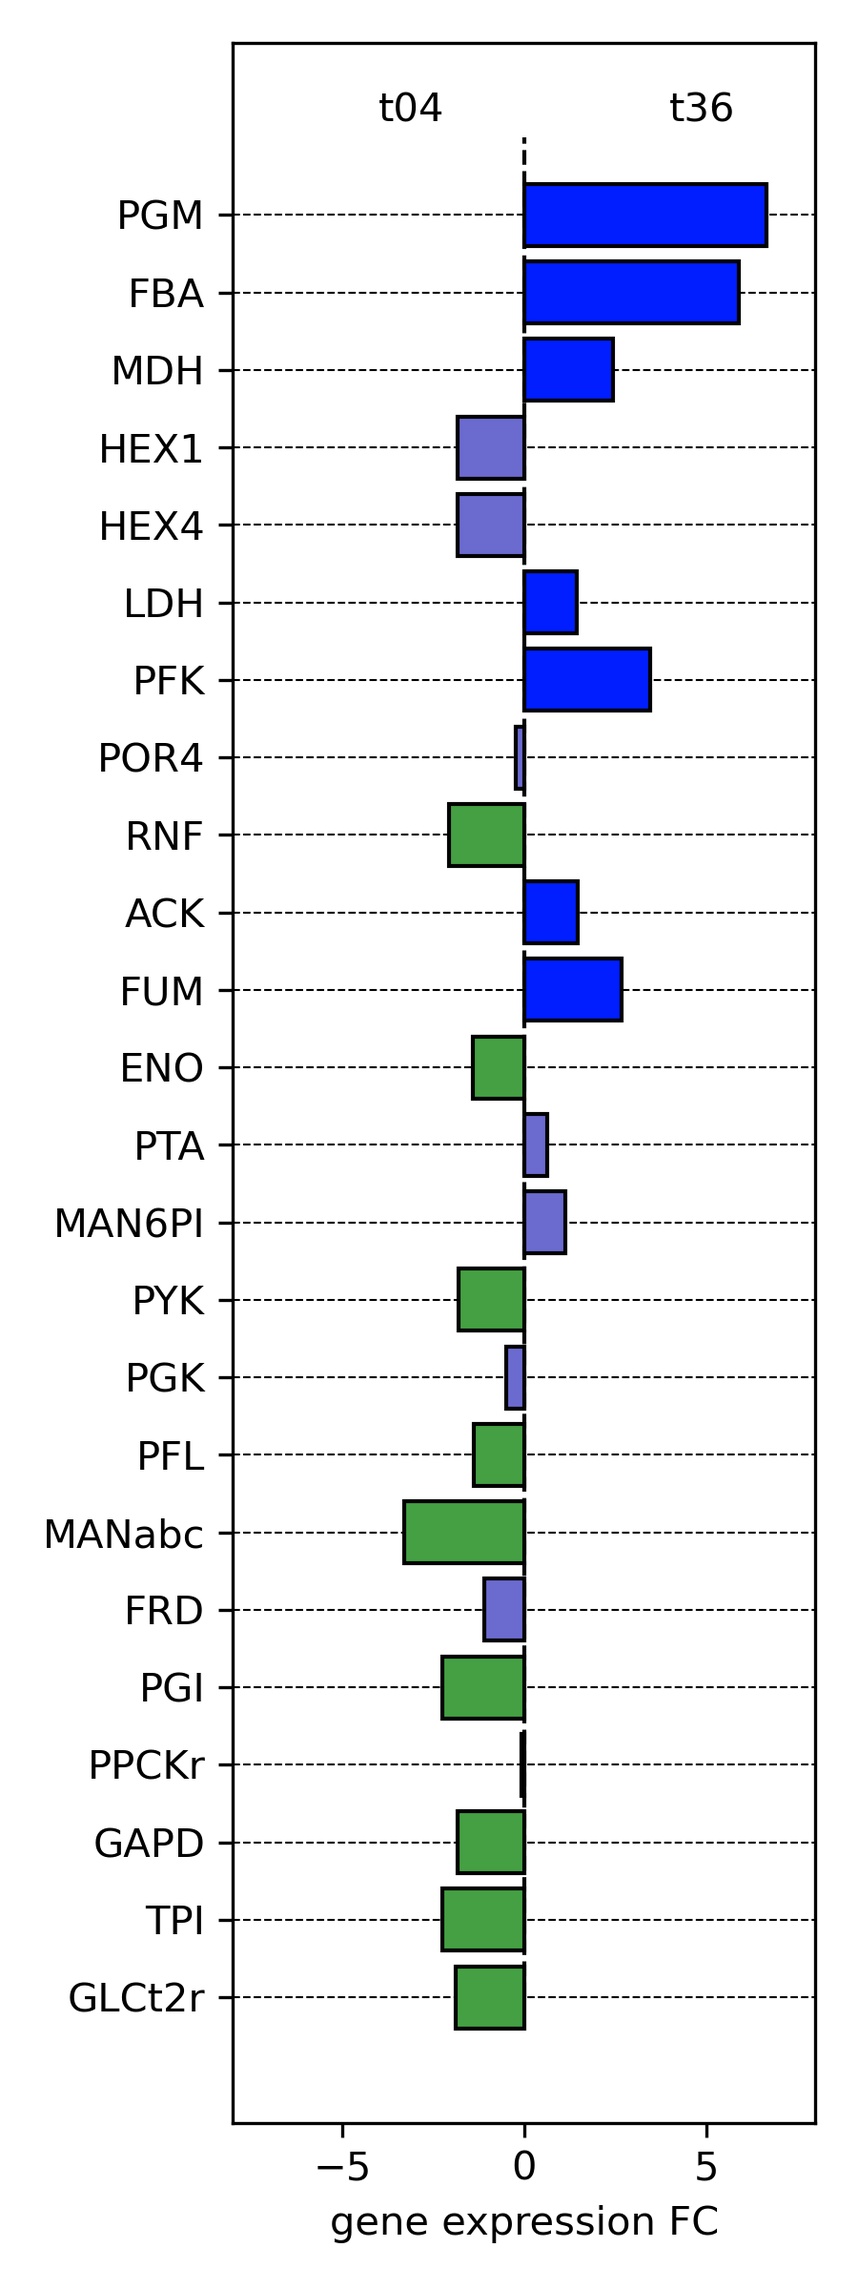
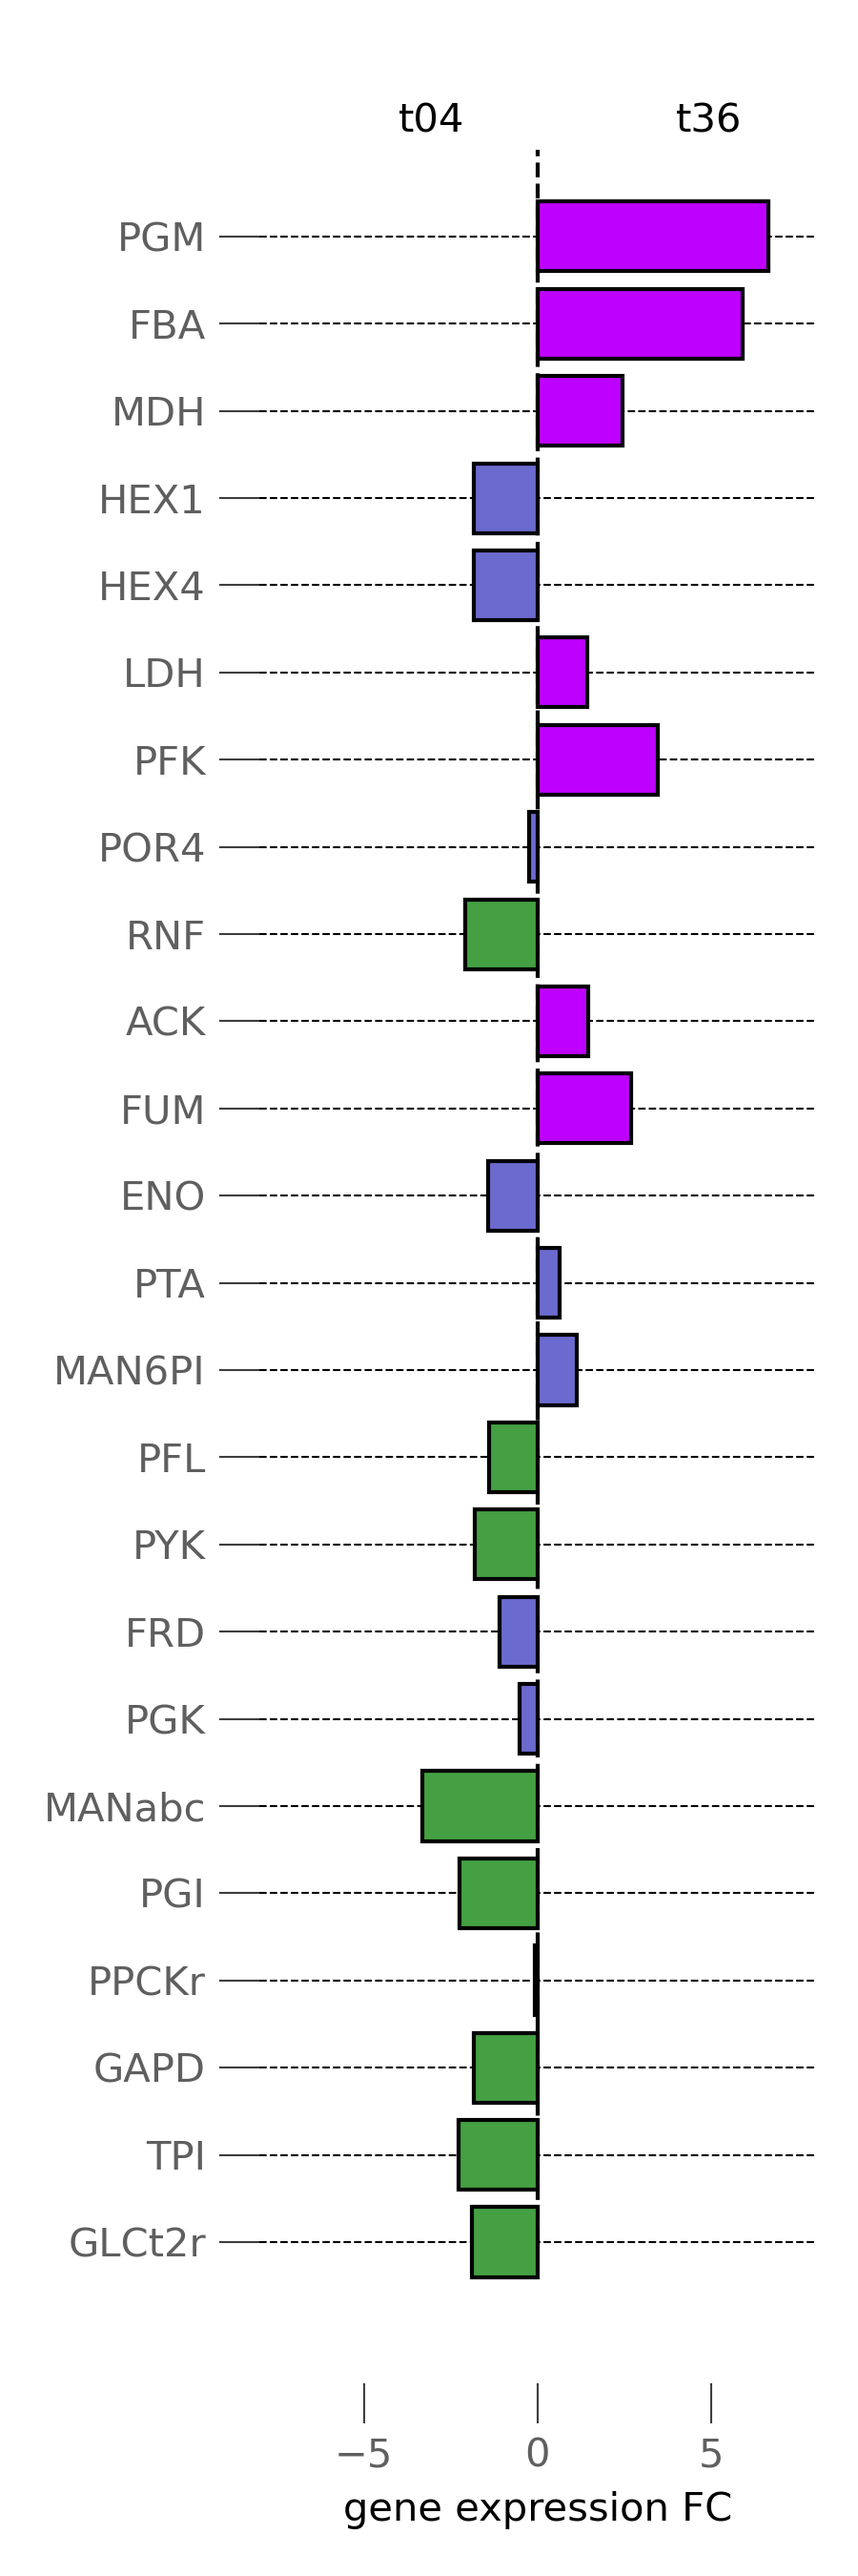
updates

diff --git a/scripts/geneExpression/btBarPlots.py b/scripts/geneExpression/btBarPlots.py
@@ -10,8 +10,11 @@ from pathlib import Path
 import numpy as np
 import scipy.stats as sts
 import cobra
+from aquarel import load_theme
+theme = load_theme("minimal_light")
+theme.apply()
+
 import matplotlib.pyplot as plt
-plt.style.use('seaborn-bright')
 
 from parseGenExpData import *
 
@@ -82,18 +85,17 @@ labels[labels=='POR4i'] = 'POR4'
 labels[labels=='PPCKr'] = 'PPCKr'
 labels[labels=='PTAr'] = 'PTA'
 
+
 c= np.array(['#6B6ACF']*len(x))
 
+c[(p < 0.01) & (x > 0)] = '#001eff'
 
-
-c[(p < 0.05) & (x > 0)] = '#001EFF'
-
-c[(p < 0.05) & (x < 0)] = '#44A043'
-
+c[(p < 0.01) & (x < 0)] = '#44A043'
 
 
 
 
+plt.rcParams["figure.figsize"] = (3 ,9)
 fig, ax = plt.subplots()
 
 ax.vlines(0,0, len(x), color = 'k', lw=1, ls='--')
@@ -112,7 +114,7 @@ ax.set_xlabel('gene expression FC')
 ax.text(-fcRange/2, len(x) + .2, gA)
 ax.text(fcRange/2, len(x) + .2, gB)
 
-plt.rcParams["figure.figsize"] = (3 ,8)
+plt.rcParams["figure.figsize"] = (3 ,9)
 plt.tight_layout()
 
 plt.savefig(os.path.join(figuresFolder, 'geneExp_' + gA + 'vs' + gB + '.png'), dpi = 300)
@@ -134,11 +136,9 @@ x,p,g = extracReactions(btGE, reactionList, group)
 
 c= np.array(['#6B6ACF']*len(x))
 
+c[(p < 0.01) & (x > 0)] = '#bd00ff'
 
-
-c[(p < 0.05) & (x > 0)] = '#001eff'
-
-c[(p < 0.05) & (x < 0)] = '#44A043'
+c[(p < 0.01) & (x < 0)] = '#44A043'
 
 
 
@@ -162,12 +162,12 @@ ax.set_xlabel('gene expression FC')
 ax.text(-fcRange/2, len(x) + .2, gA)
 ax.text(fcRange/2, len(x) + .2, gB)
 
-plt.rcParams["figure.figsize"] = (3 ,8)
+plt.rcParams["figure.figsize"] = (3 ,9)
 plt.tight_layout()
 
 plt.savefig(os.path.join(figuresFolder, 'geneExp_' + gA + 'vs' + gB + '.png'), dpi = 300)
 
-#########################t12 vs 48 #########################
+#########################t12 vs 36 #########################
 gA = 't12'
 gB = 't36'
 
@@ -181,10 +181,11 @@ x,p,g = extracReactions(btGE, reactionList, group)
 c= np.array(['#6B6ACF']*len(x))
 
 
+c[(p < 0.01) & (x > 0)] = '#bd00ff'
 
-c[(p < 0.05) & (x > 0)] = '#BD00FF'
+c[(p < 0.01) & (x < 0)] = '#001eff'
 
-c[(p < 0.05) & (x < 0)] = '#001EFF'
+
 
 
 
@@ -209,7 +210,7 @@ ax.set_xlabel('gene expression FC')
 ax.text(-fcRange/2, len(x) + .2, gA)
 ax.text(fcRange/2, len(x) + .2, gB)
 
-plt.rcParams["figure.figsize"] = (3 ,8)
+plt.rcParams["figure.figsize"] = (3 ,9)
 plt.tight_layout()
 
 plt.savefig(os.path.join(figuresFolder, 'geneExp_' + gA + 'vs' + gB + '.png'), dpi = 300)
@@ -257,7 +258,7 @@ ax.set_xlabel('gene expression FC')
 ax.text(-7.5, len(x) + .2, gA, rotation=15)
 ax.text(0.5, len(x) + .2, gB, rotation=15)
 
-plt.rcParams["figure.figsize"] = (3 ,8)
+plt.rcParams["figure.figsize"] = (3 ,9)
 plt.tight_layout()
 
 plt.savefig(os.path.join(figuresFolder, 'geneExp_' + gA + 'vs' + gB + '.png'), dpi = 300)
@@ -308,7 +309,7 @@ ax.set_xlabel('gene expression FC')
 ax.text(-7.5, len(x) + .2, gA, rotation=15)
 ax.text(0.5, len(x) + .2, gB, rotation=15)
 
-plt.rcParams["figure.figsize"] = (3 ,8)
+plt.rcParams["figure.figsize"] = (3 ,9)
 plt.tight_layout()
 
 plt.savefig(os.path.join(figuresFolder, 'geneExp_' + gA + 'vs' + gB + '.png'), dpi = 300)
@@ -359,7 +360,7 @@ ax.set_xlabel('gene expression FC')
 ax.text(-7.5, len(x) + .2, gA, rotation=15)
 ax.text(0.5, len(x) + .2, gB, rotation=15)
 
-plt.rcParams["figure.figsize"] = (3 ,8)
+plt.rcParams["figure.figsize"] = (3 ,9)
 plt.tight_layout()
 
 plt.savefig(os.path.join(figuresFolder, 'geneExp_' + gA + 'vs' + gB + '.png'), dpi = 300)

diff --git a/scripts/geneExpression/bhBarPlots.py b/scripts/geneExpression/bhBarPlots.py
@@ -106,8 +106,6 @@ x,p,g = extracReactions(bhGE, reactionList, group)
 
 c= np.array(['#6B6ACF']*len(x))
 
-
-
 c[(p < 0.01) & (x > 0)] = '#001eff'
 
 c[(p < 0.01) & (x < 0)] = '#44A043'
@@ -149,8 +147,6 @@ x,p,g = extracReactions(bhGE, reactionList, group)
 
 c= np.array(['#6B6ACF']*len(x))
 
-
-
 c[(p < 0.01) & (x > 0)] = '#bd00ff'
 
 c[(p < 0.01) & (x < 0)] = '#44A043'
@@ -190,7 +186,6 @@ group = (gA, gB)
 x,p,g = extracReactions(bhGE, reactionList, group)
 
 c= np.array(['#6B6ACF']*len(x))
-
 
 
 c[(p < 0.01) & (x > 0)] = '#bd00ff'
